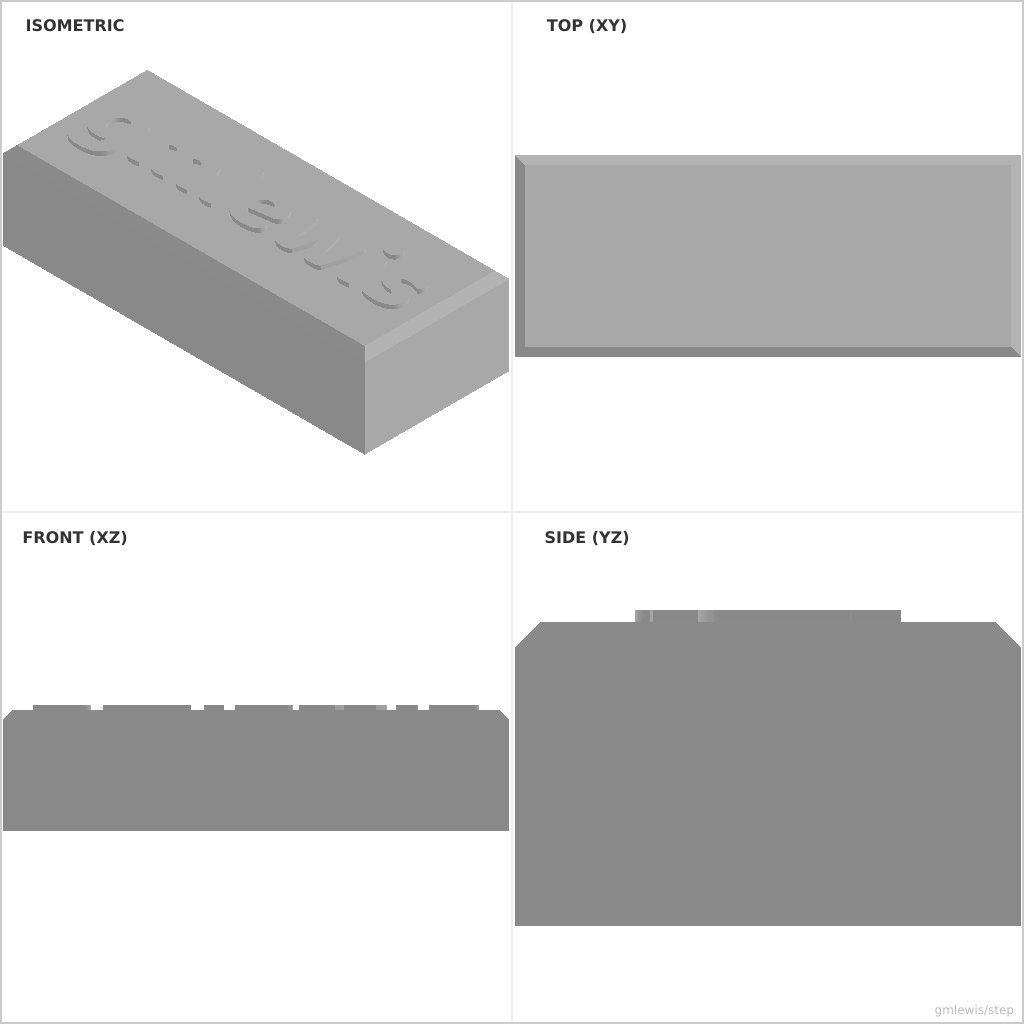
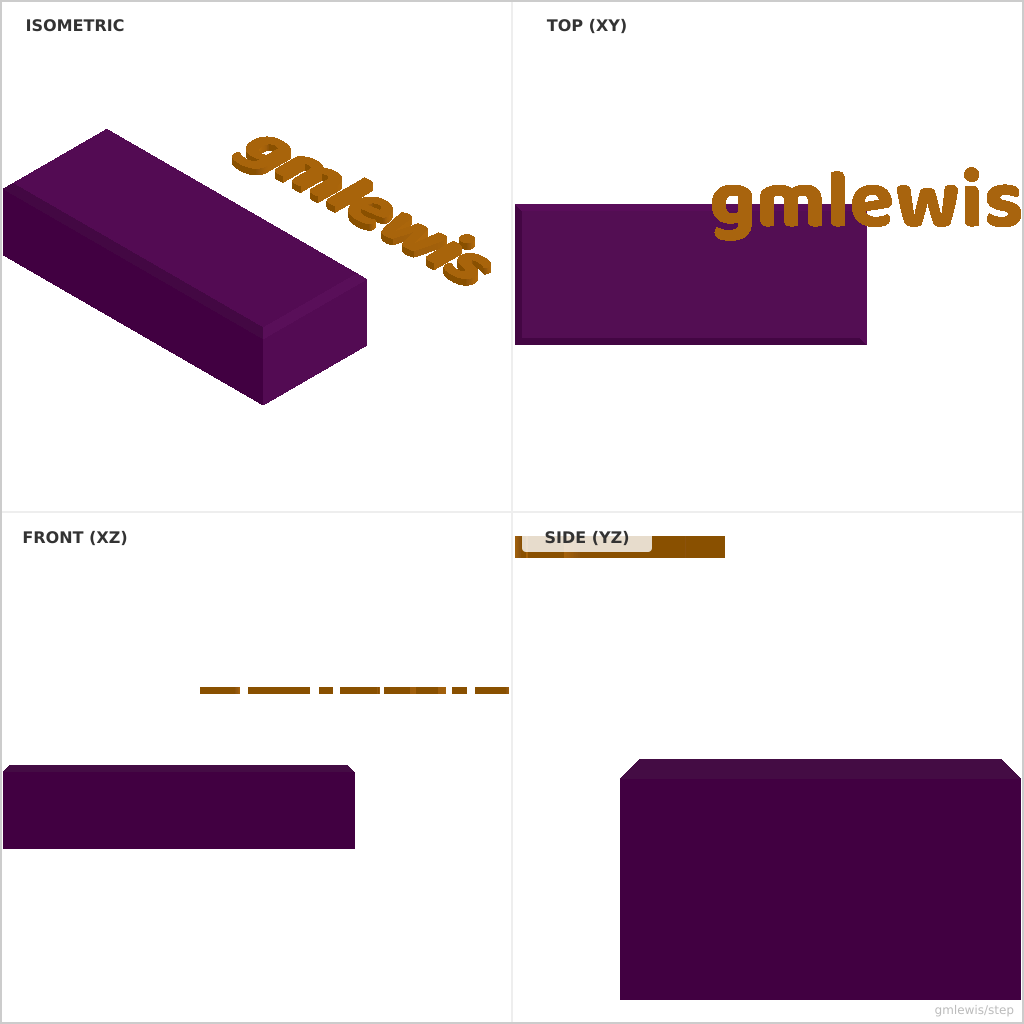
Fix embossDepth

diff --git a/scripts/manage_examples.py b/scripts/manage_examples.py
@@ -14,7 +14,7 @@ SUITE = {
     "02": [["--length", "20", "--width", "20", "--height", "5"], ["--chamferSize", "4"], ["--filletRadius", "1.5"]],
     "03": [
         ["--name", "gmlewis", "--emboss"],
-        ["--name", "MoonBit", "--embossDepth", "2", "--length", "60", "--emboss"],
+        ["--name", "MoonBit", "--depth", "2", "--length", "60", "--emboss"],
         ["--name", "gmlewis"],
     ],
     "04": [["--id", "5", "--od", "15", "--thickness", "2"], ["--id", "10", "--od", "12", "--thickness", "0.5", "--segments", "32"]],
@@ -276,6 +276,7 @@ def main():
     parser.add_argument("--render", action="store_true")
     parser.add_argument("--readme", action="store_true")
     parser.add_argument("--bpy", action="store_true")
+    parser.add_argument("--blend", action="store_true")
     args = parser.parse_args()
 
     occt_bin = find_occt()
@@ -287,7 +288,7 @@ def main():
 
     targets = sorted(SUITE.keys()) if args.target == "all" else [args.target]
     bpy_output_dir = root / "bpy-out"
-    if args.bpy:
+    if args.bpy or args.blend:
         bpy_output_dir.mkdir(parents=True, exist_ok=True)
 
     for num in targets:
@@ -314,7 +315,7 @@ def main():
         variants_processed = []
         for i, config in enumerate(SUITE[padded_num], 1):
             print(f"  [Set {i}] Args: {' '.join(config)}")
-            if args.bpy:
+            if args.bpy or args.blend:
                 base_name = f"example-{padded_num}-{i}"
                 bpy_file = bpy_output_dir / f"{base_name}.py"
                 blend_file = bpy_output_dir / f"{base_name}.blend"

diff --git a/examples/03-engraved-name-tag/README.md b/examples/03-engraved-name-tag/README.md
@@ -14,7 +14,7 @@ The intent is that you can run the code here to emit a STEP file, open it in a C
 ## Parameters to try
 - `text`
 - `fontSize`
-- `embossDepth`
+- `depth`
 - `toothCount`
 - `pitchOrModule`
 
@@ -33,7 +33,7 @@ Command line: `./run-example.sh 03 --name gmlewis --emboss`
 
 ### Variant 2
 
-Command line: `./run-example.sh 03 --name MoonBit --embossDepth 2 --length 60 --emboss`
+Command line: `./run-example.sh 03 --name MoonBit --depth 2 --length 60 --emboss`
 
 ![](preview-2.png)
 

diff --git a/examples/07-cable-label-clip/README.md b/examples/07-cable-label-clip/README.md
@@ -13,7 +13,7 @@ The intent is that you can run the code here to emit a STEP file, open it in a C
 ## Parameters to try
 - `text`
 - `fontSize`
-- `embossDepth`
+- `depth`
 - `clearance`
 - `interference`
 

diff --git a/examples/14-bolt-length-gauge/README.md b/examples/14-bolt-length-gauge/README.md
@@ -13,7 +13,7 @@ The intent is that you can run the code here to emit a STEP file, open it in a C
 ## Parameters to try
 - `text`
 - `fontSize`
-- `embossDepth`
+- `depth`
 - `clearance`
 - `interference`
 

diff --git a/examples/05-gridfinity-compatible-bin/README.md b/examples/05-gridfinity-compatible-bin/README.md
@@ -13,7 +13,7 @@ The intent is that you can run the code here to emit a STEP file, open it in a C
 ## Parameters to try
 - `text`
 - `fontSize`
-- `embossDepth`
+- `depth`
 - `rows`
 - `cols`
 
